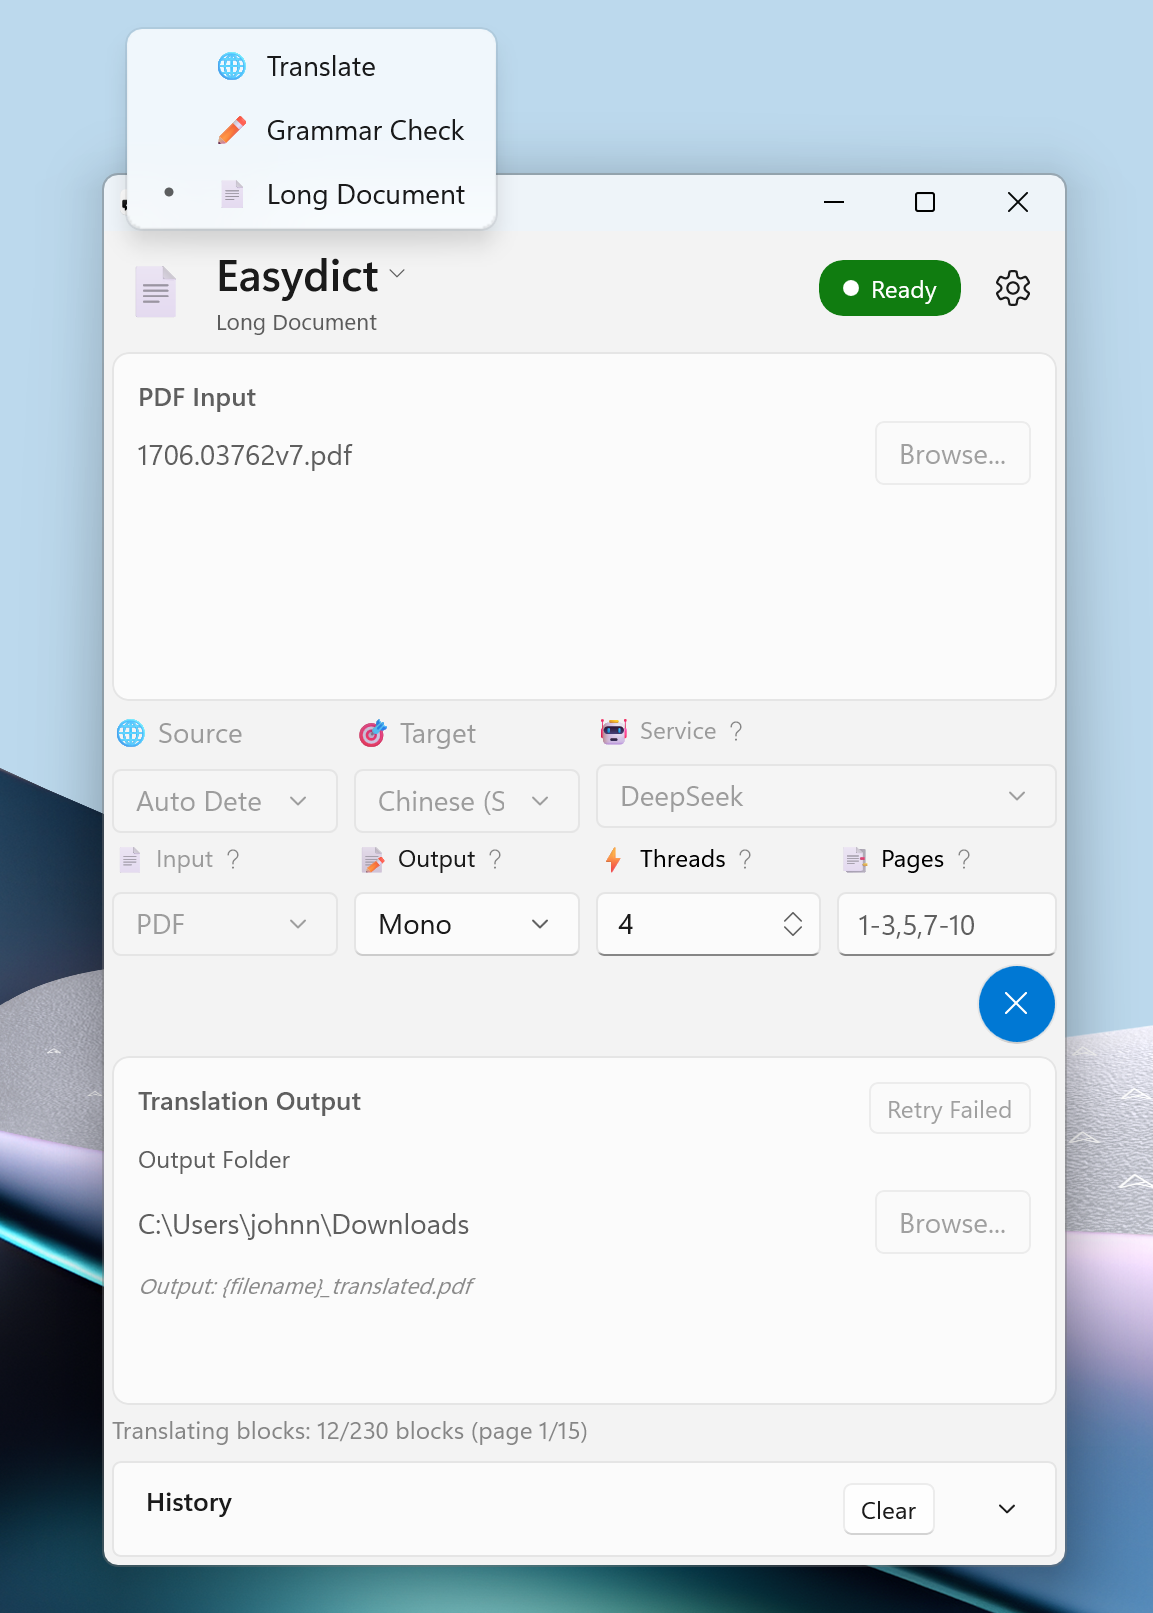
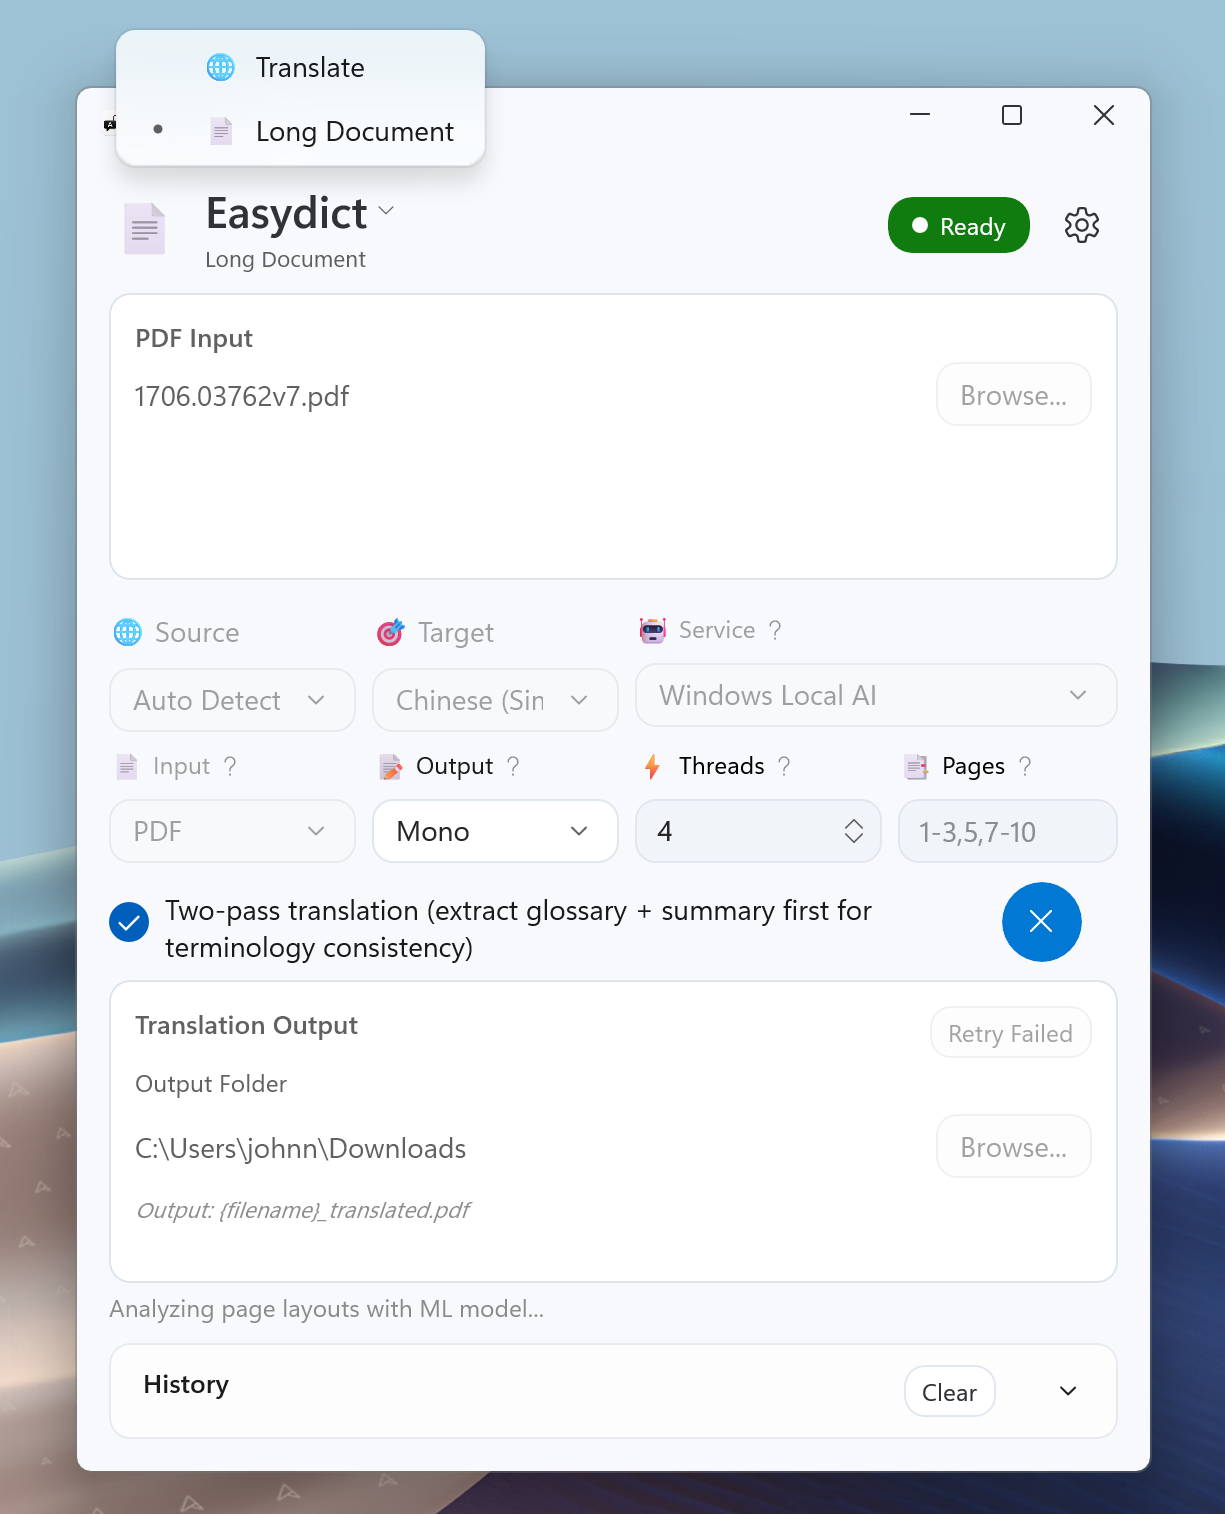
docs(readme): add Windows Local AI provider and refresh screenshots

diff --git a/README.md b/README.md
@@ -240,6 +240,7 @@ dotnet run --project src/Easydict.WinUI/Easydict.WinUI.csproj
 | Linguee | REST | — | Not tested |
 | Google Dict | REST | ✅ | |
 | Ollama | OpenAI API | — | Requires local Ollama setup |
+| Windows Local AI | Local runtime | ✅ | TranslationManager routing tested; real inference requires Phi Silica, Foundry Local, or OpenVINO model |
 | BuiltIn AI | OpenAI API | — | Embedded key |
 | Custom OpenAI | OpenAI API | — | OpenAI-compatible, user-defined endpoint |
 

diff --git a/README_ZH.md b/README_ZH.md
@@ -240,6 +240,7 @@ dotnet run --project src/Easydict.WinUI/Easydict.WinUI.csproj
 | Linguee | REST | — | 未测试 |
 | Google 词典 | REST | ✅ | |
 | Ollama | OpenAI API | — | 需要本地 Ollama 环境 |
+| Windows Local AI | 本地运行时 | ✅ | 已测试 TranslationManager 路由；真实推理需要 Phi Silica、Foundry Local 或 OpenVINO 模型 |
 | 内置 AI | OpenAI API | — | 内置密钥 |
 | 自定义 OpenAI | OpenAI API | — | OpenAI 兼容，用户自定义端点 |
 